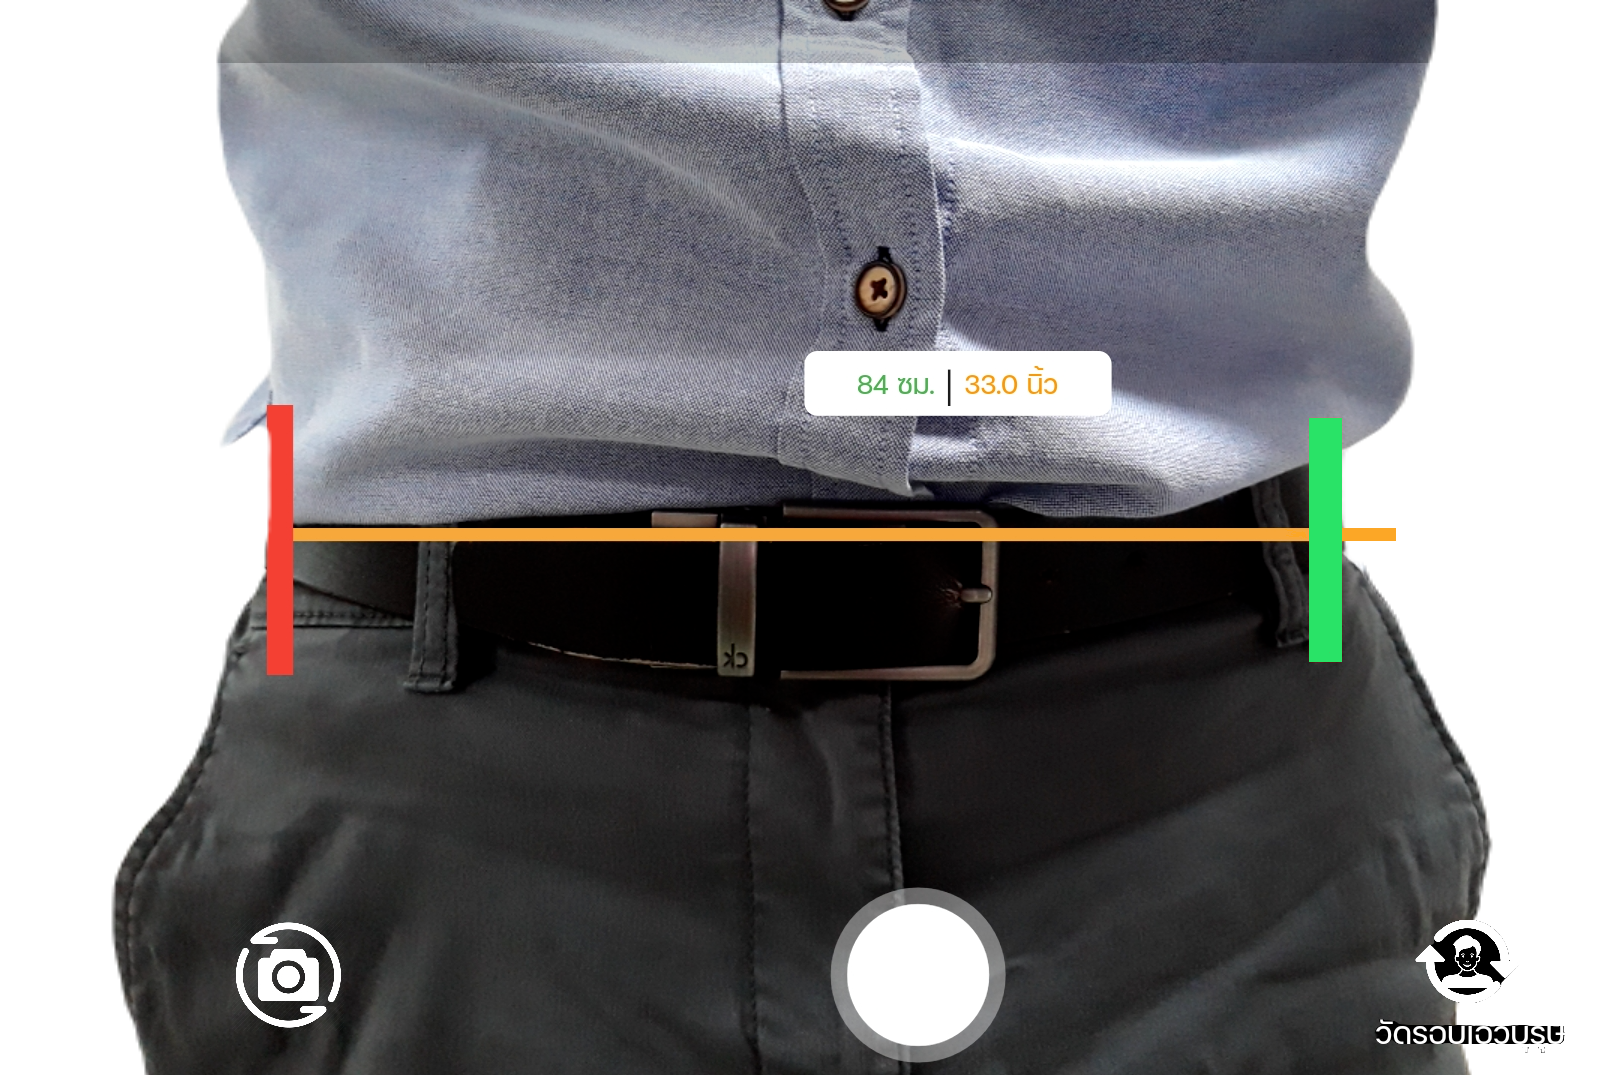
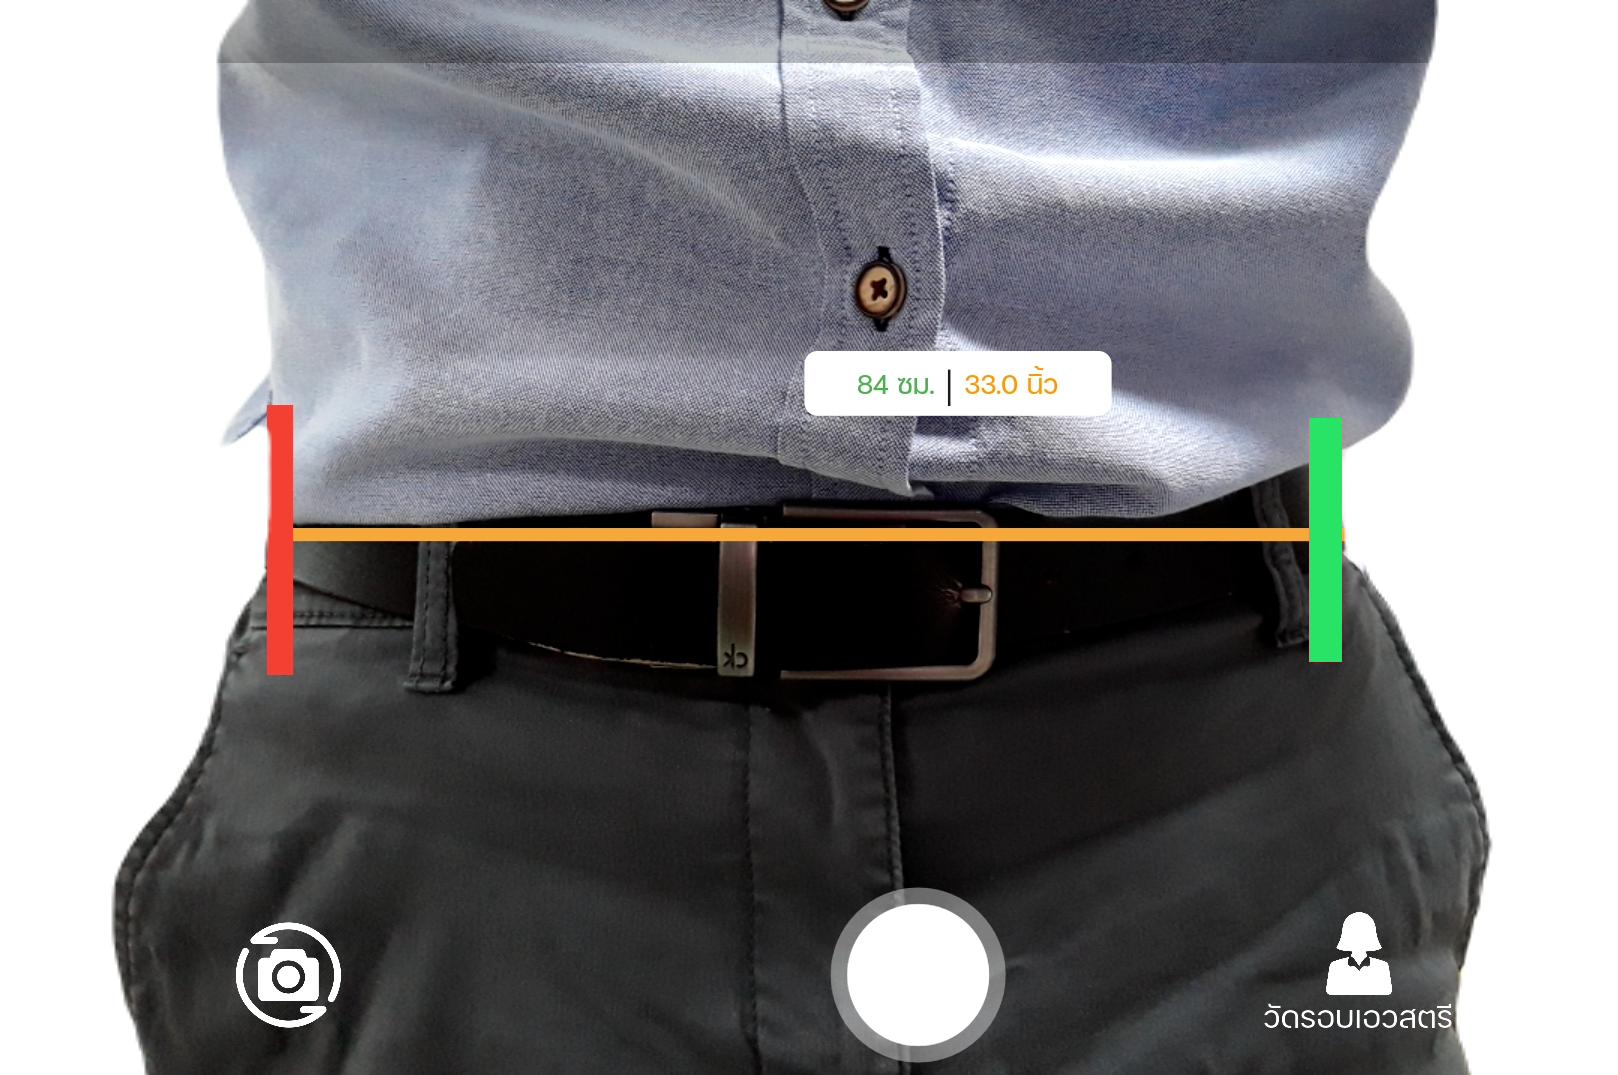
update 09/08/65

Changed region(s): [[0.7726, 0.8288, 0.9889, 0.9823], [0.8344, 0.4912, 0.8653, 0.5219]]

diff --git a/lib/widget/camera3.dart b/lib/widget/camera3.dart
@@ -1114,12 +1114,7 @@ class _Camera3State extends State<Camera3> with WidgetsBindingObserver {
                         ImageIcon(
                           AssetImage(
                               isMan ? 'images/man.png' : 'images/woman.png'),
-                          size: 20,
-                          color: Colors.white,
-                        ),
-                        const ImageIcon(
-                          AssetImage('images/icons-circle.png'),
-                          size: 40,
+                          size: 32,
                           color: Colors.white,
                         ),
                       ],
